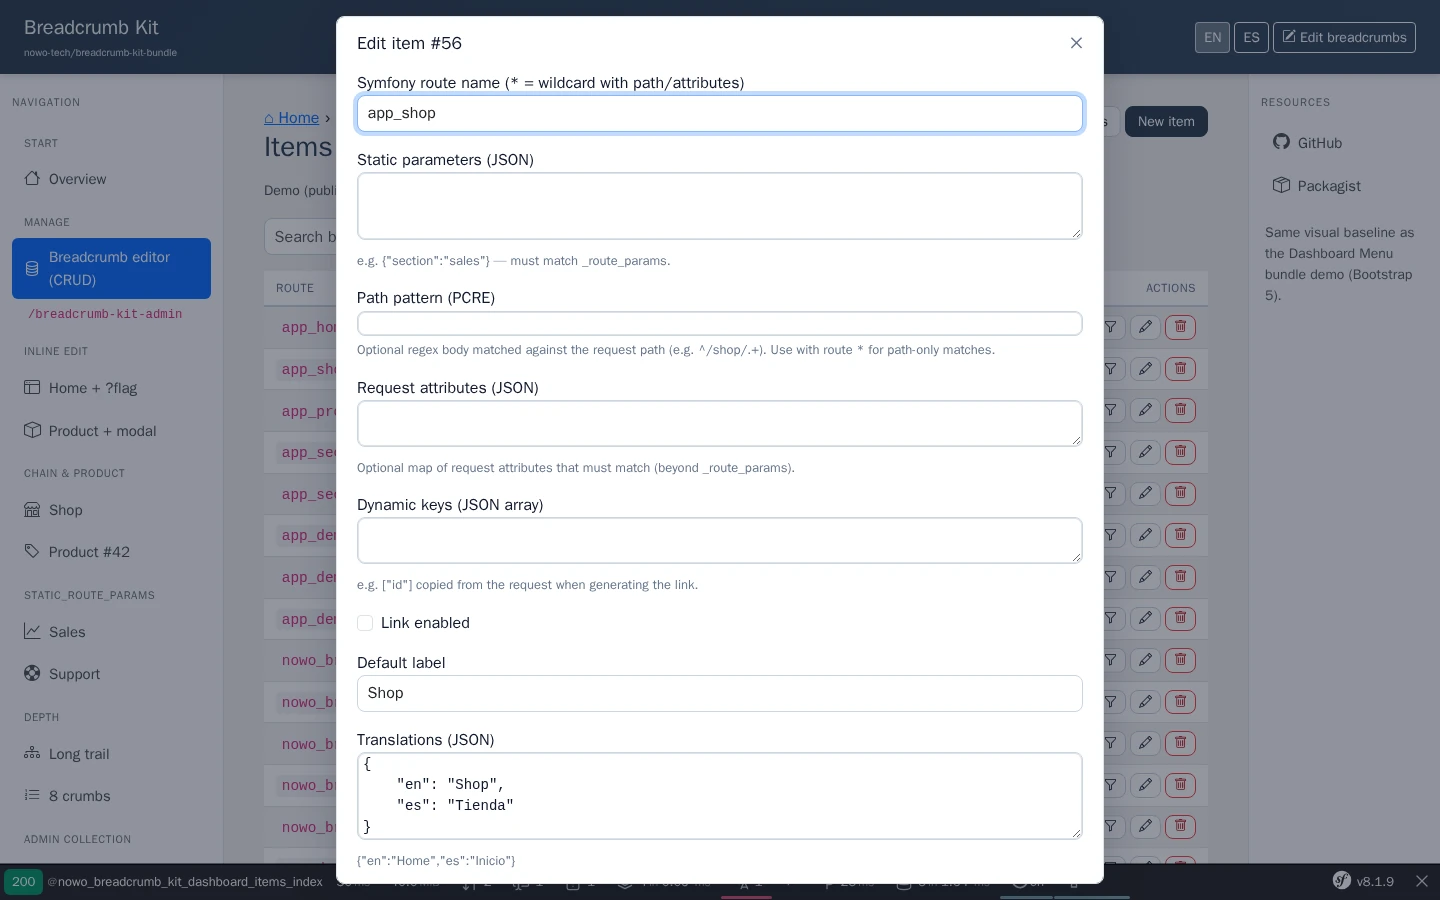
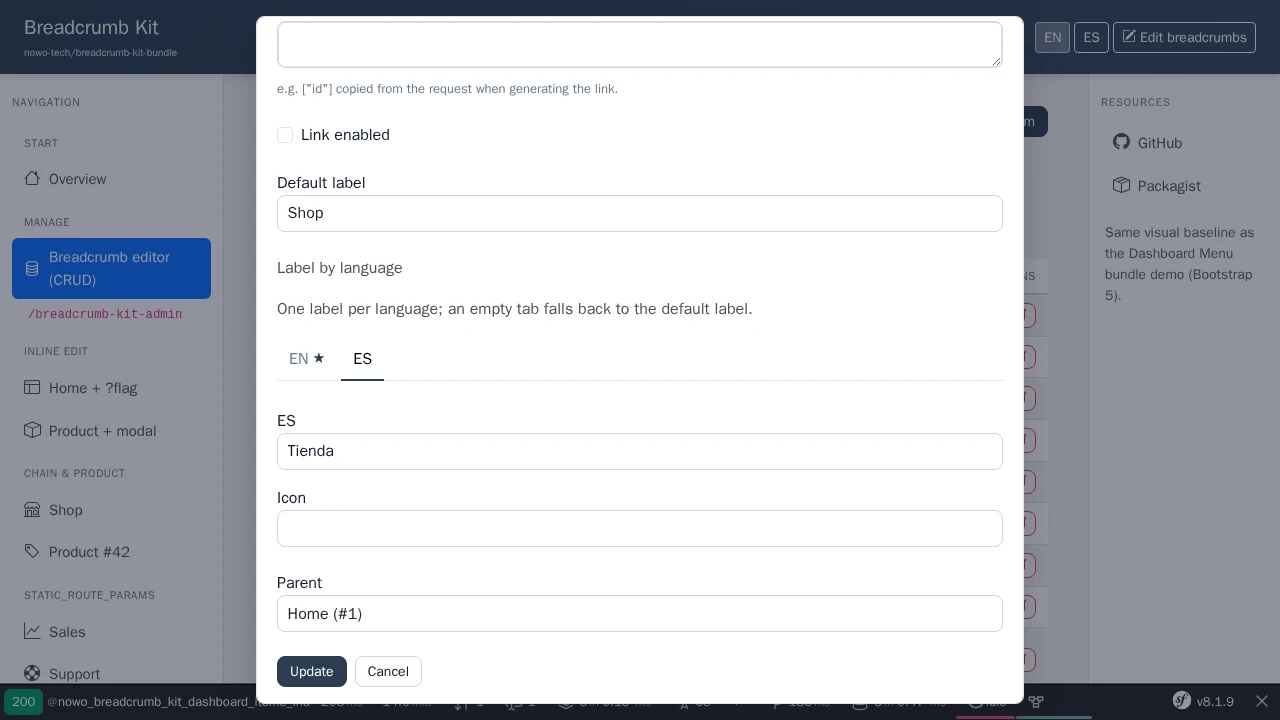
docs(demo): item dialog screenshot with the label tabs, demo lock on FormKit 2.13 / UiKit 2.5

diff --git a/demo/symfony8/config/reference.php b/demo/symfony8/config/reference.php
@@ -1130,6 +1130,7 @@ use Symfony\Component\Config\Loader\ParamConfigurator as Param;
  *     breadcrumbs?: array{ // Page header breadcrumbs: BreadcrumbKit (breadcrumb_render) when installed and enabled here, else the plain trail from PageHeader::breadcrumbs.
  *         breadcrumb_kit?: bool|Param, // Use BreadcrumbKit when its breadcrumb_render() Twig function exists. // Default: true
  *         collection?: scalar|Param|null, // BreadcrumbKit collection code (null = its default collection). PageHeader::breadcrumbCollection overrides it. // Default: null
+ *         enabled?: bool|Param, // 2.3.1: false drops the breadcrumb trail (BreadcrumbKit and PageHeader::breadcrumbs) from every page header, e.g. when the host layout renders its own. // Default: true
  *     },
  *     theme?: array{ // Global theme (REQ-UI-003): semantic slot classes / attributes, partial overrides and --nowo-ui-* tokens, configured once for every bundle.
  *         framework_defaults?: bool|Param, // false = slots print the semantic nowo-ui-* class and the host classes only (no UiKit framework defaults such as btn / badge / card). Per slot: classes.<slot>: {value: …, framework_defaults: false}. // Default: true
@@ -1139,6 +1140,7 @@ use Symfony\Component\Config\Loader\ParamConfigurator as Param;
  *         tokens?: array<string, mixed>,
  *         tokens_dark?: array<string, mixed>,
  *         confirm_message_in_header?: bool|Param, // Confirm dialogs and the full-page confirm render the message inside the header, under the title (hosts whose dialog header is title + message). View\Confirm::messageInHeader wins when set. // Default: false
+ *         popover_menus?: bool|Param, // 2.4: menu / kebab / row-action menus render their panel as a native [popover] (browser top layer: never clipped by table scrollers or cards; nowo-ui-popover.js places it). The partial option `popover` wins. // Default: false
  *         bundles?: array<string, array{ // Default: []
  *             framework_defaults?: bool|Param, // Override of theme.framework_defaults for this bundle (unset = inherit).
  *             classes?: array<string, mixed>,
@@ -1207,6 +1209,12 @@ use Symfony\Component\Config\Loader\ParamConfigurator as Param;
  *     accessibility?: array{ // Accessibility helpers applied by kit form type extensions.
  *         unlabelled_choice_aria_label?: bool|Param, // When true (default), non-expanded ChoiceType fields (and subtypes such as EntityType) rendered with label: false and no aria-label/aria-labelledby get aria-label from their translated help, else their placeholder. // Default: true
  *     },
+ *     locale_tabs?: array{ // Locale tabs (2.13): the locale_tabs option, TranslatableMapType and the _locale_tabs include.
+ *         locales?: list<scalar|Param|null>,
+ *         default_locale?: scalar|Param|null, // Default language (marked and listed first). Null (default) = kernel.default_locale when it is one of the locales, else the first locale. // Default: null
+ *         renderer?: "auto"|"ui_kit"|"native"|Param, // auto (default): the UiKit locale_tabs partial when nowo-tech/ui-kit-bundle 2.5+ is installed, else the neutral FormKit markup; native: always the neutral markup; ui_kit: same as auto (falls back to native without UiKit). // Default: "auto"
+ *         form_theme?: bool|Param, // When true (default), registers @NowoFormKitBundle/form/locale_tabs_theme.html.twig in twig.form_themes (it only renders fields with locale_tabs). // Default: true
+ *     },
  *     twig?: array{ // Twig helpers shipped by the bundle (registered only when twig/twig is installed).
  *         csrf_action_form?: bool|Param, // When true (default), registers the csrf_action_form() Twig function (CSRF-only single-action POST forms). Set false if the host keeps its own function with that name. // Default: true
  *     },
@@ -1217,6 +1225,8 @@ use Symfony\Component\Config\Loader\ParamConfigurator as Param;
  *         auto_help?: bool|Param, // When true (default), unset help becomes {form}.{field}.help translation keys. Set false to avoid raw missing-help keys in the UI. // Default: true
  *         convention_requires_translation?: bool|Param|null, // When true, the auto help / placeholder convention keys are only applied if the key exists in the translator catalogue (current locale + fallbacks) for the field's translation domain. Never affects labels. Null (default) inherits the root convention_requires_translation. // Default: null
  *         required_label_suffix?: scalar|Param|null, // Appended to the label when the field is required (e.g. " *"). Empty or null to disable. // Default: null
+ *         help_attr?: array<string, scalar|Param|null>,
+ *         css_framework?: scalar|Param|null, // CSS framework of this profile's form theme chrome (2.13; static_blocks checkbox_row): bootstrap adds form-check / form-check-input / form-check-label and the mb-3 row fallback. Null (default) = the root css_framework. // Default: null
  *         help_modal?: array{ // Default help modal configuration (used when the field option "help_modal" is enabled).
  *             framework?: scalar|Param|null, // Modal framework to use when opening from frontend. // Default: "bootstrap5"
  *             icon_html?: scalar|Param|null, // HTML snippet inserted next to the label to trigger the help modal (fallback when ux_icon is not used or UX Icons is unavailable). // Default: "<span class=\"nowo-help-modal-icon\" aria-hidden=\"true\">?</span>"

diff --git a/README.md b/README.md
@@ -15,7 +15,7 @@ This bundle is **FrankenPHP worker mode friendly**.
   <tr>
     <td width="33%"><a href="docs/images/demo/public-trail.webp"><img src="docs/images/demo/public-trail.webp" alt="Demo product page: database-driven trail Home › Shop › Product under the demo header, with the Symfony toolbar"></a></td>
     <td width="33%"><a href="docs/images/demo/dashboard-collections.webp"><img src="docs/images/demo/dashboard-collections.webp" alt="Breadcrumb collections dashboard on the UiKit list page: trail in the page header, export / import / new actions, search and row actions"></a></td>
-    <td width="33%"><a href="docs/images/demo/dashboard-item-dialog.webp"><img src="docs/images/demo/dashboard-item-dialog.webp" alt="Item edit form loaded into a UiKit dialog over the items list"></a></td>
+    <td width="33%"><a href="docs/images/demo/dashboard-item-dialog.webp"><img src="docs/images/demo/dashboard-item-dialog.webp" alt="Item edit form in a UiKit dialog over the items list: default label and the label translations as one tab per locale"></a></td>
   </tr>
   <tr>
     <td align="center">Front trail (<code>breadcrumb_render()</code>)</td>

diff --git a/docs/CHANGELOG.md b/docs/CHANGELOG.md
@@ -60,6 +60,7 @@ and this project adheres to [Semantic Versioning](https://semver.org/spec/v2.0.0
   emptied tab removes its label; no labels at all is stored as `null` as before. Each label is limited to 512
   characters (error on its tab).
 - `BreadcrumbItemType` takes `$locales` and `$defaultLocale` constructor arguments (wired by the extension).
+- Demo locked to FormKit 2.13 / UiKit 2.5; README screenshot of the item dialog re-captured with the label tabs.
 - Requires `nowo-tech/form-kit-bundle` **^2.13** (was ^2.0) and `nowo-tech/ui-kit-bundle` **^2.5.1** (was ^2.2).
 
 ### Added
